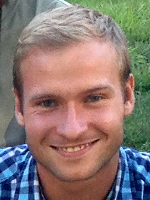
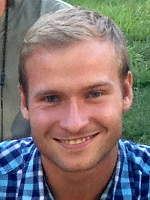
font replacement, updating pawel pic

diff --git a/_includes/themes/lab/default.html b/_includes/themes/lab/default.html
@@ -28,7 +28,7 @@
     <link rel="stylesheet" href="//maxcdn.bootstrapcdn.com/font-awesome/4.3.0/css/font-awesome.min.css"/>
 
     <!-- Fonts via Google -->
-    <link href='http://fonts.googleapis.com/css?family=Open+Sans:300italic,400italic,400,300' rel='stylesheet' type='text/css'/>
+    <link href='http://fonts.googleapis.com/css?family=Lato:300italic,700italic,300,700' rel='stylesheet' type='text/css'/>
 
     <!-- HTML5 Shim and Respond.js IE8 support of HTML5 elements and media queries -->
     <!-- WARNING: Respond.js doesn't work if you view the page via file:// -->

diff --git a/assets/themes/lab/css/style.scss b/assets/themes/lab/css/style.scss
@@ -1,7 +1,7 @@
 ---
 ---
 
-$font-stack:    14px/1.5 Lato, "Helvetica Neue", "Open Sans", Helvetica, Arial, sans-serif;
+$font-stack:    14px/1.5 Lato, "Helvetica Neue", Helvetica, Arial, sans-serif;
 $font-size-base: 14px;
 $primary-color: #000000;
 $font-weight: 300;
